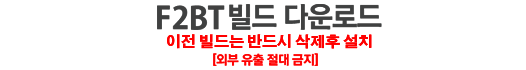
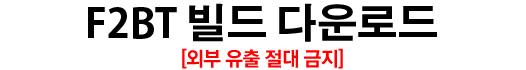
11

Changed region(s): [[0.1521, 0.0286, 0.8517, 1.0]]

diff --git a/ProjectT/f2bt/index.html b/ProjectT/f2bt/index.html
@@ -19,7 +19,11 @@
           </tr>
             <tr>
                 <td>&nbsp;</td>
+            </tr>			
+			<tr>
+                <td align="right"><b>이전 빌드는 삭제후 설치!!</b></td>
             </tr>
+			
             <!--tr>
                 <td align="right "><strong>LastUpdate : daily or requested</strong></td>
             </tr-->
@@ -51,6 +55,9 @@
             </tr>
             <tr>
                 <td>&nbsp;</td>
+            </tr>			
+			<tr>
+                <td align="right"><b>이전 빌드는 삭제후 설치!!</b></td>
             </tr>
             <!--tr> 
                 <td align="right "><strong>LastUpdate : daily or requested</strong></td>
